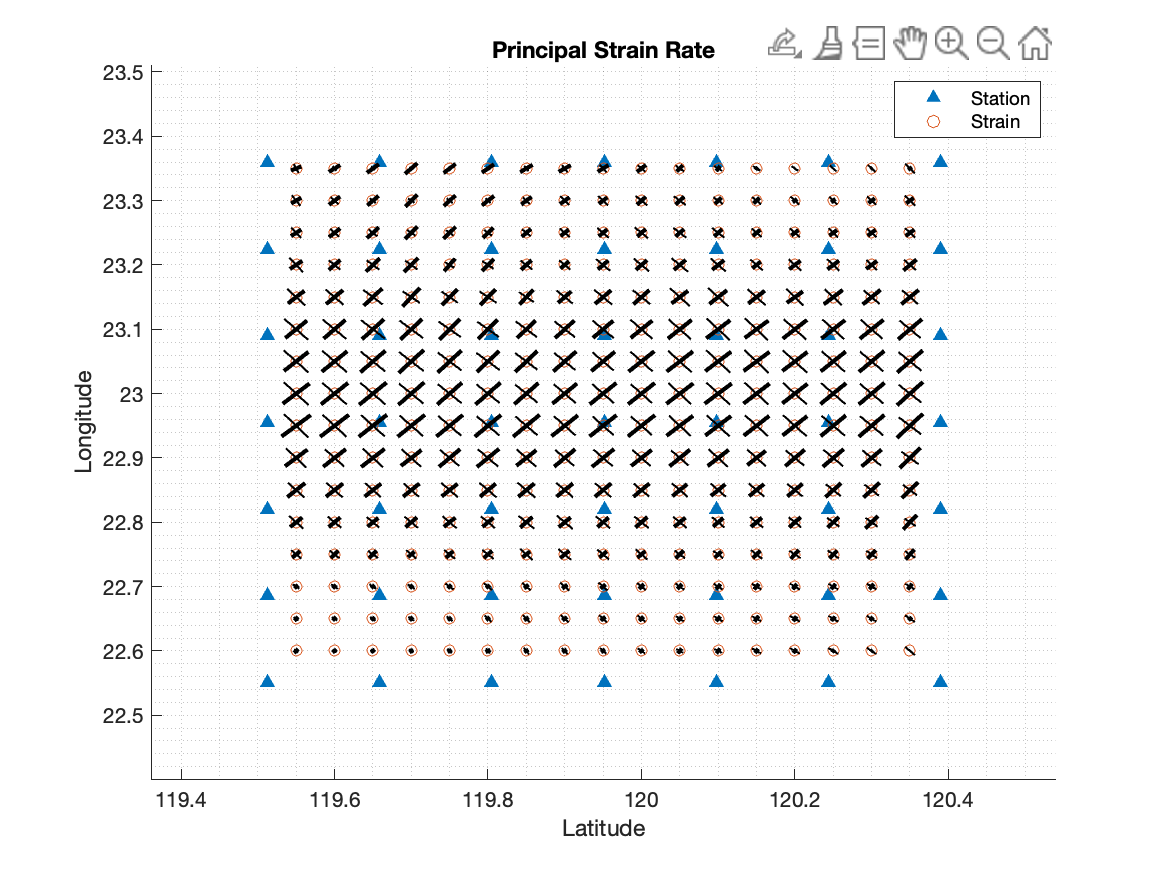
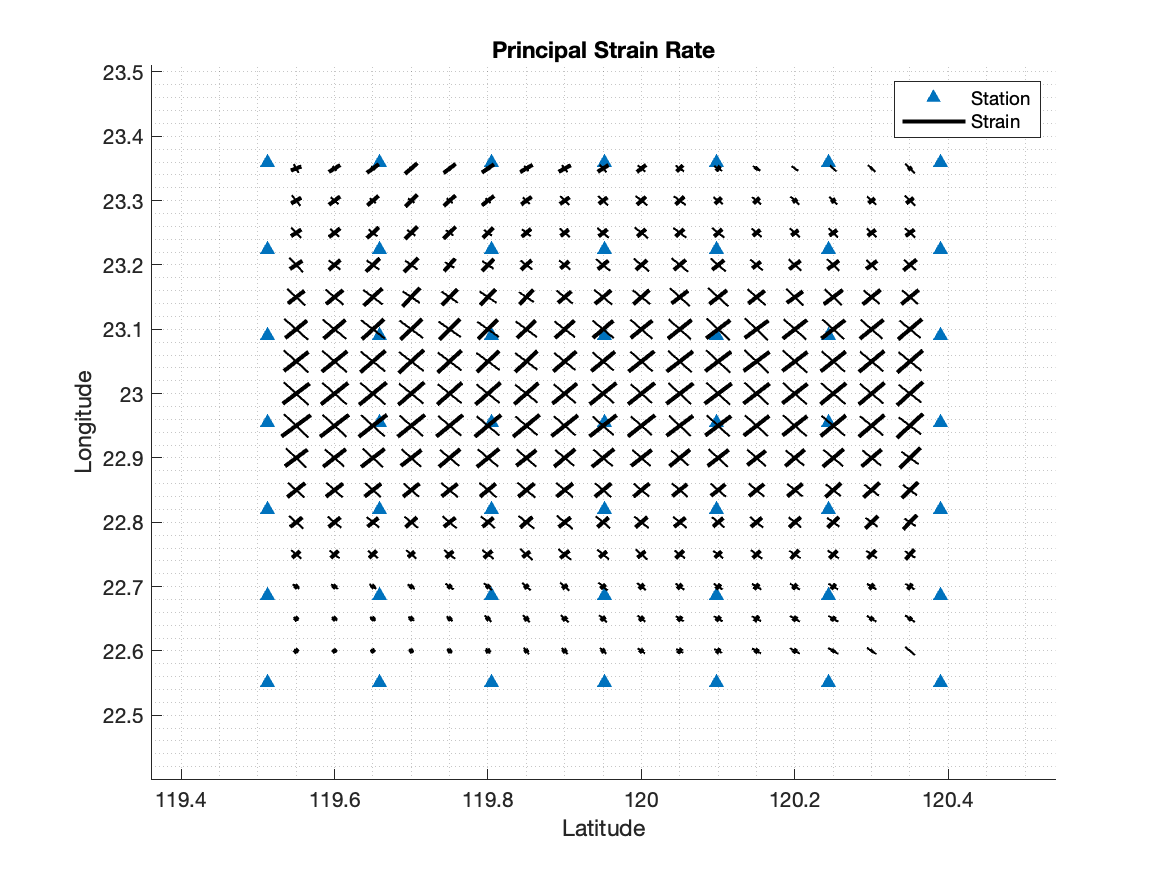
upload CD Homework ShearStrainRate Figure

Changed region(s): [[0.6478, 0.0309, 0.9254, 0.0926], [0.7712, 0.1234, 0.8329, 0.1543]]

diff --git a/Application-of-Geodetic-Techniques-to-Crustal-Deformation/homework2/plotShear.m b/Application-of-Geodetic-Techniques-to-Crustal-Deformation/homework2/plotShear.m
@@ -1,4 +1,4 @@
-function [] = plotStrain(Station, Strain, OutName)
+function [] = plotShear(Station, Shear, OutName)
 %% ========== Setup ========= %%
 % ===== Initial Value
 scale = 0.001;
@@ -12,28 +12,29 @@ scatter(Station(:, 1), Station(:, 2), 40, '^', 'filled');
 hold on;
 
 % ===== Plot Strain
-for i = 1: length(Strain)
-    x1 = [Strain(i, 1)-0.5*Strain(i, 3)*sind(Strain(i, 5))*scale Strain(i, 1)+0.5*Strain(i, 3)*sind(Strain(i, 5))*scale];
-    y1 = [Strain(i, 2)-0.5*Strain(i, 3)*cosd(Strain(i, 5))*scale Strain(i, 2)+0.5*Strain(i, 3)*cosd(Strain(i, 5))*scale];
+for i = 1: length(Shear)
+    x1 = [Shear(i, 1)-0.5*Shear(i, 3)*sin(Shear(i, 5))*scale Shear(i, 1)+0.5*Shear(i, 3)*sin(Shear(i, 5))*scale];
+    y1 = [Shear(i, 2)-0.5*Shear(i, 3)*cos(Shear(i, 5))*scale Shear(i, 2)+0.5*Shear(i, 3)*cos(Shear(i, 5))*scale];
     plot(x1, y1, 'LineWidth', 2, 'Color', 'k');
     hold on;
 
-    x2 = [Strain(i, 1)-0.5*Strain(i, 4)*sind(Strain(i, 5)+90)*scale Strain(i, 1)+0.5*Strain(i, 4)*sind(Strain(i, 5)+90)*scale];
-    y2 = [Strain(i, 2)-0.5*Strain(i, 4)*cosd(Strain(i, 5)+90)*scale Strain(i, 2)+0.5*Strain(i, 4)*cosd(Strain(i, 5)+90)*scale];
+    x2 = [Shear(i, 1)-0.5*Shear(i, 4)*sin(Shear(i, 5)+pi/2)*scale Shear(i, 1)+0.5*Shear(i, 4)*sin(Shear(i, 5)+pi/2)*scale];
+    y2 = [Shear(i, 2)-0.5*Shear(i, 4)*cos(Shear(i, 5)+pi/2)*scale Shear(i, 2)+0.5*Shear(i, 4)*cos(Shear(i, 5)+pi/2)*scale];
     plot(x2, y2, 'LineWidth', 1, 'Color', 'k');
     hold on;
 end
 
 % ===== Plot Config
-title('Principal Strain Rate');
+title('Shear Strain Rate');
 xlabel('Latitude');
 ylabel('Longitude');
 xlim([min(Station(:, 1))-0.15 max(Station(:, 1))+0.15]);
 ylim([min(Station(:, 2))-0.15 max(Station(:, 2))+0.15]);
-legend('Station', 'Strain');
+legend('Station', 'Shear');
 grid minor;
 
 % ========== save Figure ========== %%
 saveas(gcf, OutName, 'png');
 
 end
+

diff --git a/Application-of-Geodetic-Techniques-to-Crustal-Deformation/homework2/CD_Homework2.m b/Application-of-Geodetic-Techniques-to-Crustal-Deformation/homework2/CD_Homework2.m
@@ -16,15 +16,31 @@ StationData = StationData(:, 1:2);
 
 %% ========== Read Strain Data ========== %%
 StrainFile = fopen([FolderPath '/strain.gmt']);
-cnt = 0;
-while ~feof(StrainFile)
-    cnt = cnt + 1;
-    strainspt = strsplit(fgetl(StrainFile), ' ');
-
-    StrainData(cnt, :) = [str2double(strainspt(2:6))];
-end
+StrainData = cell2mat(textscan(StrainFile, '%f %f %f %f %f', 'Delimiter', '\t', 'MultipleDelimsAsOne', true));
 fclose(StrainFile);
+
+%% ========== Read Shear Data ========== %%
+ShearFile = fopen([FolderPath '/shear_dex.gmt']);
+ShearData = cell2mat(textscan(ShearFile, '%f %f %f %f', 'Delimiter', '\t', 'MultipleDelimsAsOne', true));
+ShearData = ShearData(1:2:end, :);
+fclose(ShearFile);
+
+%% ========== Read Shear Angle Data ========== %%
+AngleFile = fopen([FolderPath '/strain.out']);
+cnt = 0;
+while ~feof(AngleFile)
+    cnt = cnt + 1;
+
+    anglespt = strsplit(fgetl(AngleFile), ' ');
+    if cnt == 1; continue; end
+
+    AngleData(cnt-1, :) = [str2double(anglespt(18))];
+end
+fclose(AngleFile);
 
 %% ========== Plot Principal Strain Rate ========== %%
 plotStrain(StationData, StrainData, [OutputFolder '/Strain']);
 
+%% ========== Plot Shear Strain Rate ========== %%
+ShearAngleData = [ShearData AngleData];
+plotShear(StationData, ShearAngleData, [OutputFolder '/Shear']);
